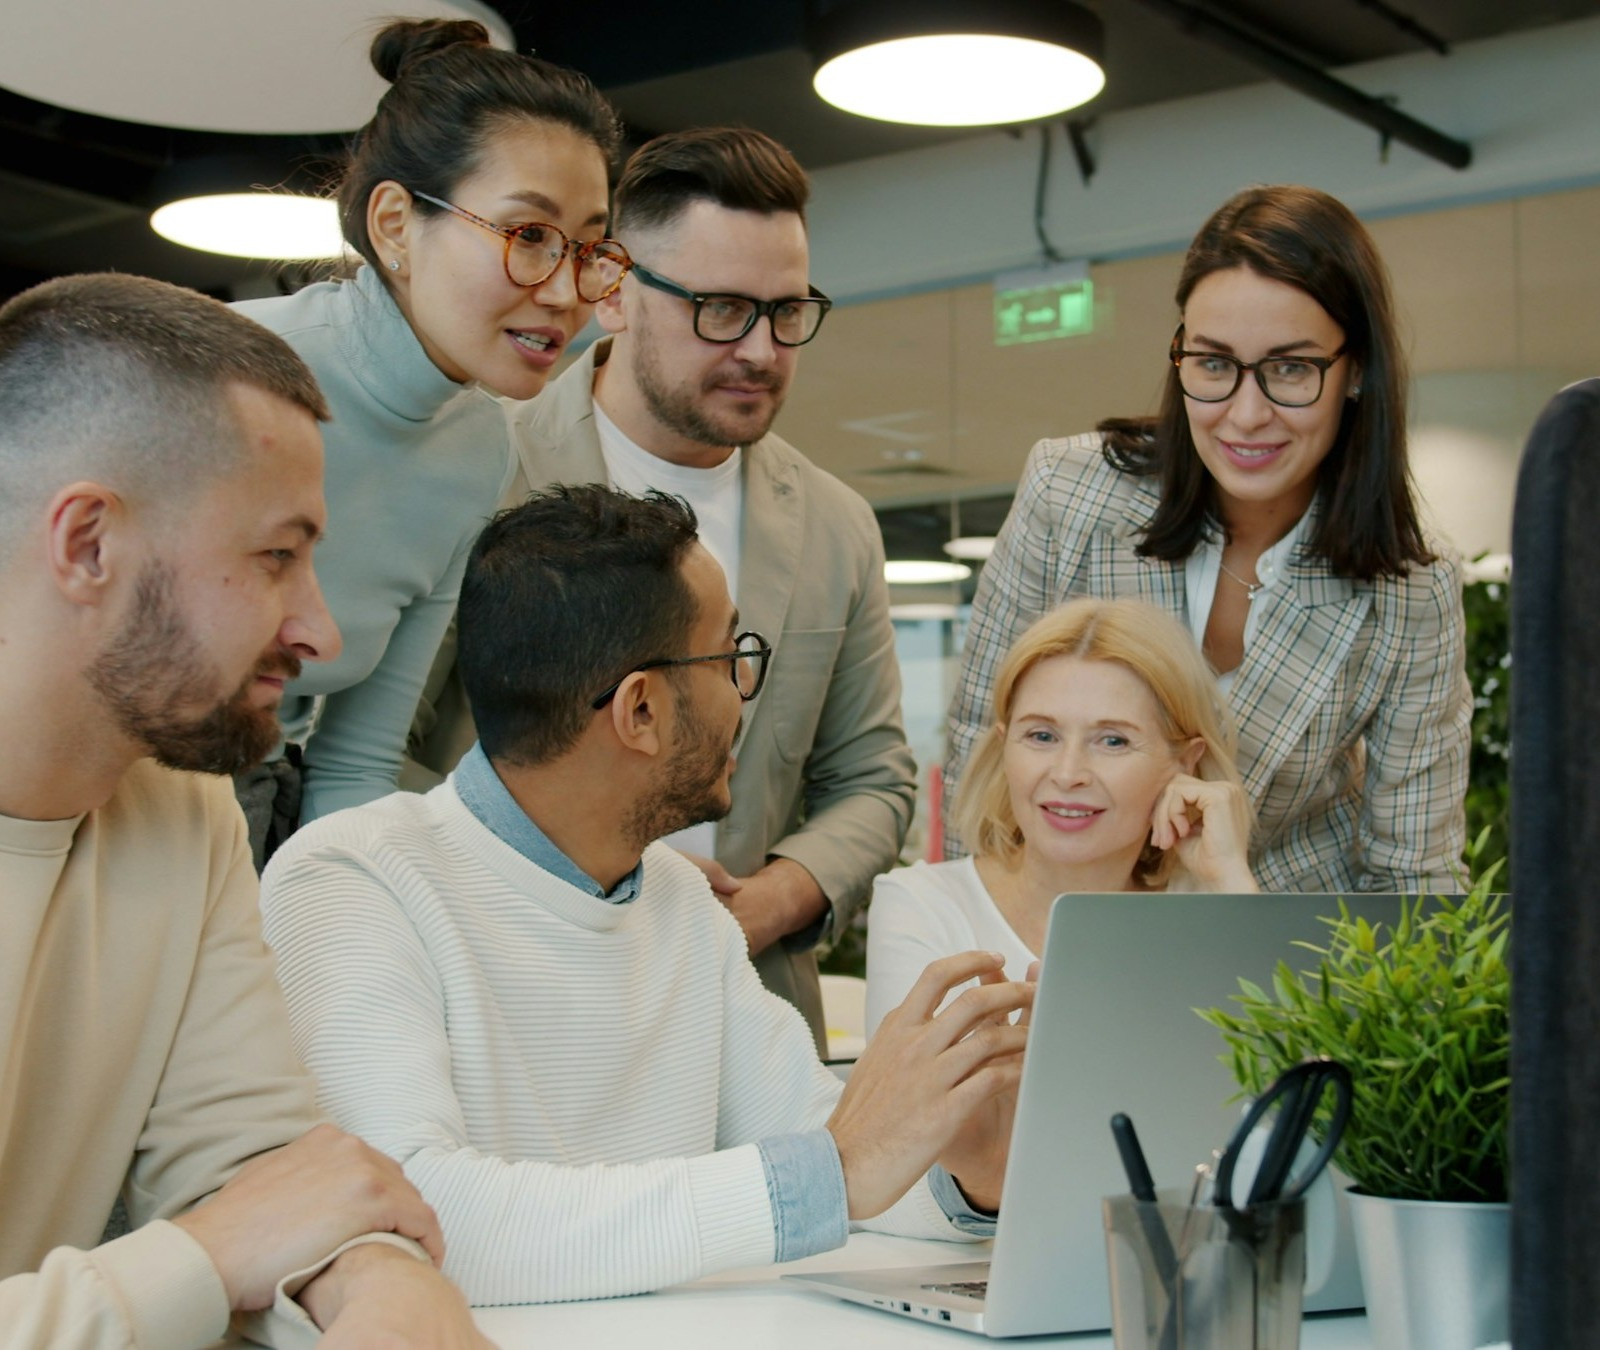
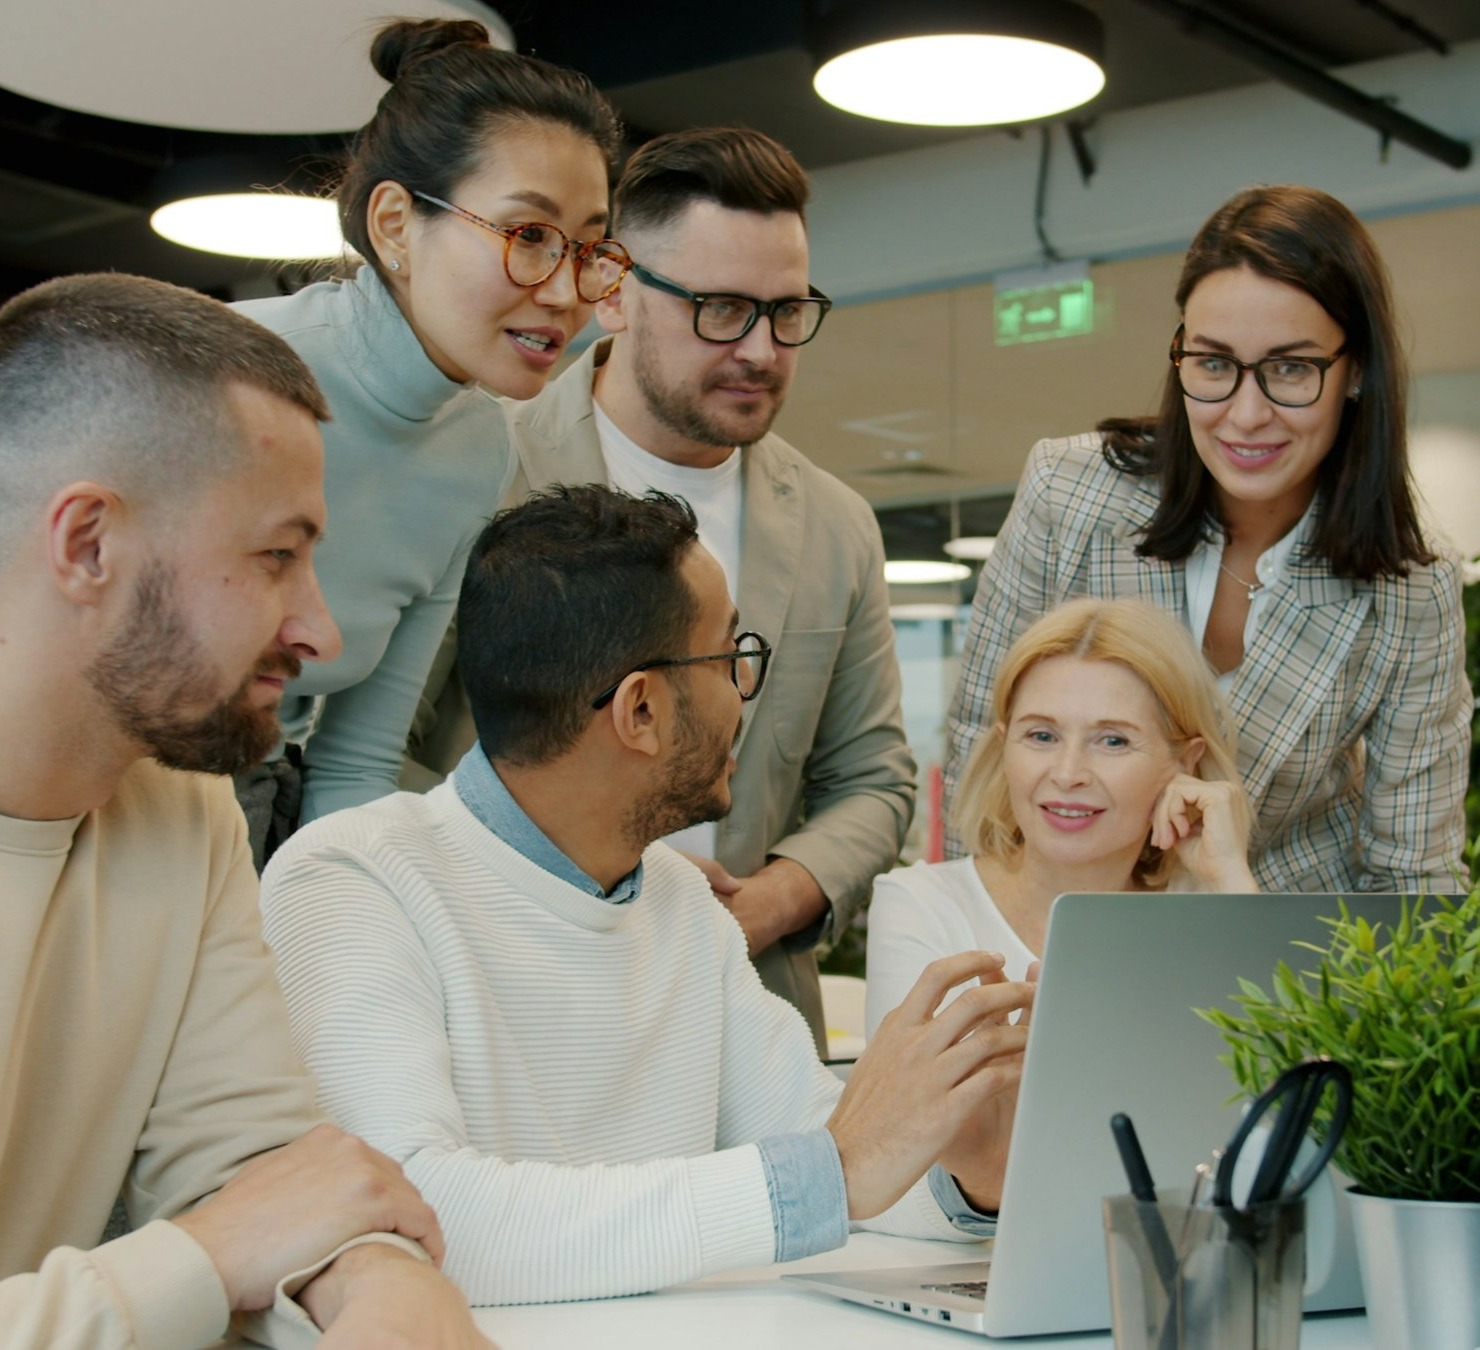
Trim hero photo's right edge back to the colleague's shoulder
The previous crop reached far enough right to show the dark monitor
and divider panel behind the group. Pulled the right edge in to
1810px so it cuts at her shoulder instead, leaving the group as the
only subject.

Final frame is 1480x1350, matched exactly by the CSS aspect ratio,
so nothing is cropped or distorted in the browser. The taller ratio
also brings the photo within 17px of the text column height.

diff --git a/src/components/homepage/Hero.tsx b/src/components/homepage/Hero.tsx
@@ -28,11 +28,11 @@ export function Hero({ data }: { data: HomePageData }) {
             </div>
           </div>
 
-          <div className="group aspect-[1600/1350] w-full overflow-hidden rounded-2xl bg-ink/5 ring-1 ring-ink/10">
+          <div className="group aspect-[1480/1350] w-full overflow-hidden rounded-2xl bg-ink/5 ring-1 ring-ink/10">
             <Image
               src="/images/hero-team.jpg"
               alt="A mixed team of colleagues gathered around a laptop discussing work together"
-              width={1600}
+              width={1480}
               height={1350}
               className="h-full w-full object-cover grayscale transition-all duration-500 ease-out group-hover:grayscale-0"
               priority
